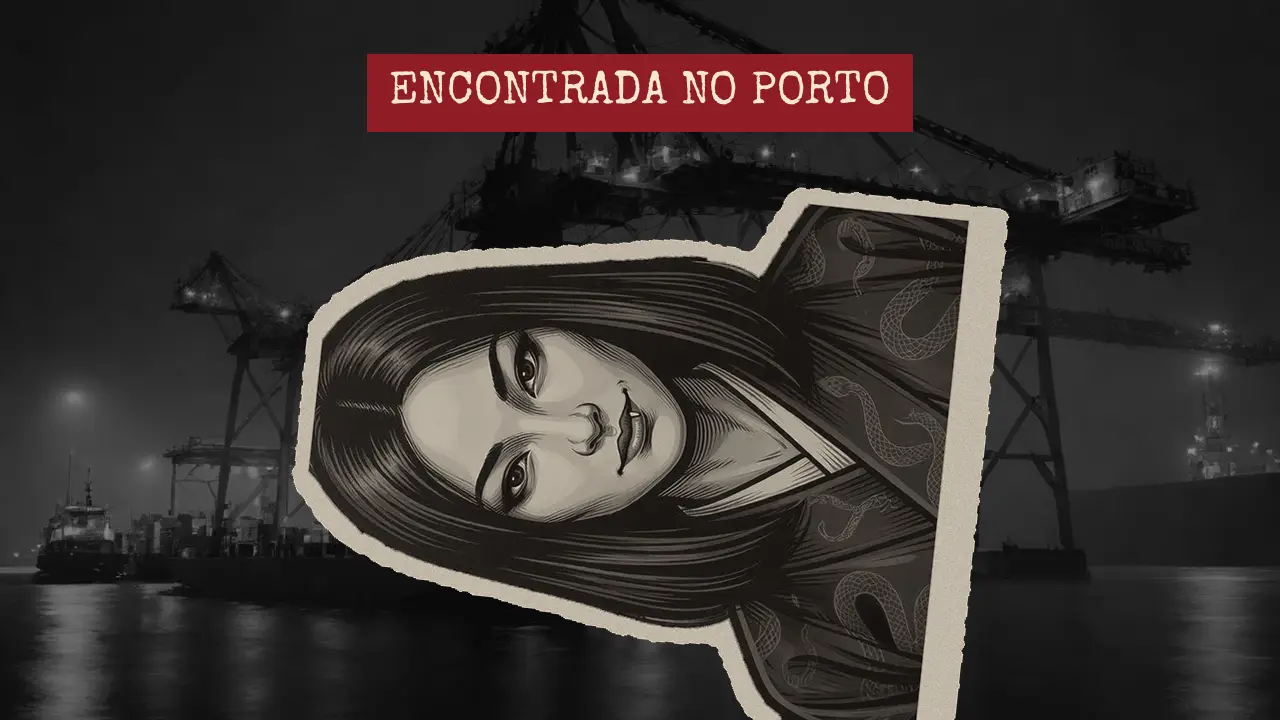
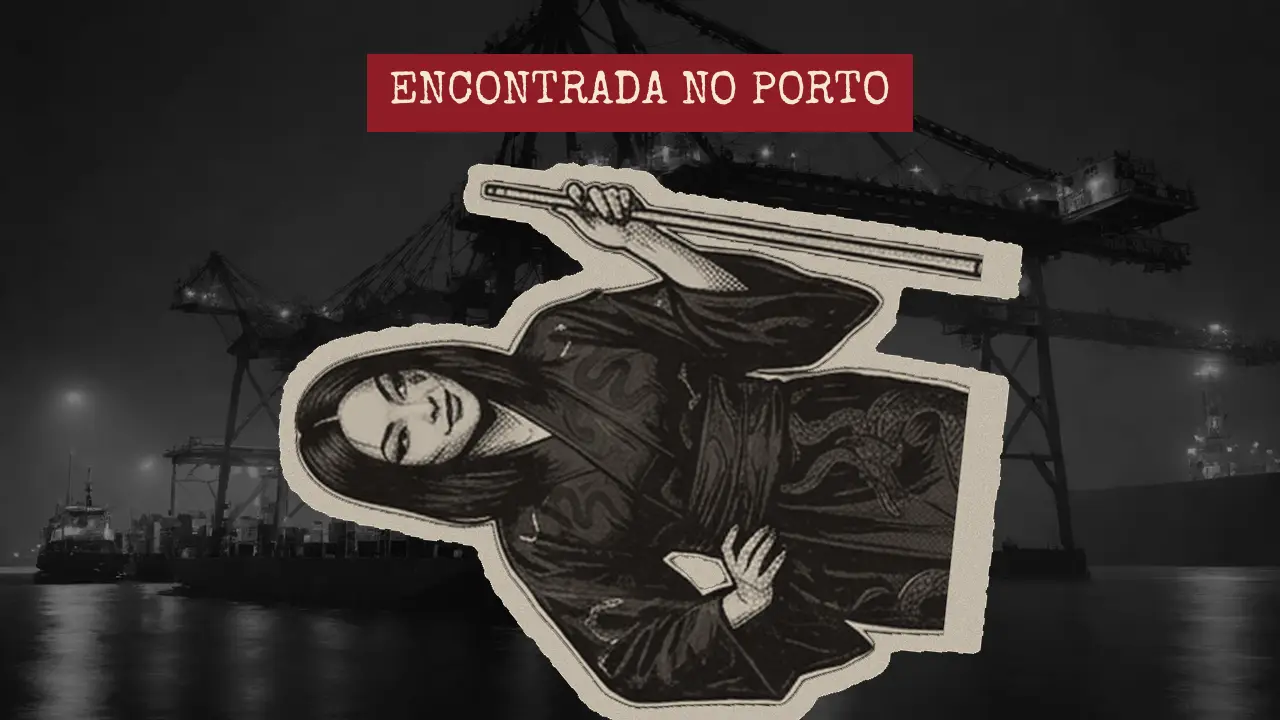
Harumi: 6 poses da prancha estilizada do Peter (neutro, taco, manga, medo, brava, desdem)
O recorte das pranchas de fundo vermelho usa o isnet-anime, que guarda o taco
e os dedos, e apaga o vermelho que aparece nos vãos. Na pose do taco fica só o
que os dois modelos acham, para a mesa de sinuca sair.

Claude-Session: https://claude.ai/code/session_019rMdYjoxthhBmpK8puANwM

Changed region(s): [[0.2188, 0.2139, 0.8125, 1.0]]

diff --git a/art/recortar_poses.py b/art/recortar_poses.py
@@ -38,7 +38,20 @@ POSES = {
         "dante_calado": (715, 45, 1000, 470),    # "silent & cold"
         "dante_pulso": (785, 225, 1345, 640),    # "the oath": a mão estendida, oferecendo o sangue
     },
+    "harumi": {  # a prancha estilizada (fundo vermelho); a realista com acabamento do Rayo ficou só no teste
+        "harumi_neutro": (40, 88, 340, 440),
+        "harumi_taco": (366, 88, 680, 320),
+        "harumi_manga": (700, 88, 1020, 375),
+        "harumi_medo": (1040, 88, 1345, 460),
+        "harumi_brava": (362, 432, 680, 640),
+        "harumi_desdem": (700, 432, 1020, 745),
+    },
 }
+# pranchas de fundo vermelho chapado: o vermelho que aparece nos vãos (entre o braço e o corpo) também sai,
+# e o recorte usa o modelo de ilustração (isnet-anime), que guarda o taco e os dedos finos
+FUNDO_VERMELHO = {"harumi"}
+# poses em que o modelo de ilustração leva junto um objeto do cenário (a mesa de sinuca): fica só o que os dois modelos acham
+INTERSECAO = {"harumi_taco"}
 
 
 def limpar(im, limiar=30):
@@ -52,14 +65,38 @@ def limpar(im, limiar=30):
     return im
 
 
+def tirar_vermelho(im, minimo=150):
+    """Apaga manchas grandes do vermelho do fundo que ficaram dentro do recorte (o rembg preenche os vãos)."""
+    a = np.array(im).astype(np.int16)
+    r, g, b = a[..., 0], a[..., 1], a[..., 2]
+    verm = ((r > 105) & (r > 2.0 * g) & (r > 2.0 * b)) | ((r > 22) & (r > 2.8 * g) & (r > 2.8 * b))
+    verm = ndimage.binary_opening(verm, iterations=2)
+    rot, n = ndimage.label(verm)
+    if n:
+        tam = np.bincount(rot.ravel()); tam[0] = 0
+        grande = tam[rot] >= minimo
+        grande = ndimage.binary_dilation(grande, iterations=2)
+        alfa = np.array(im.getchannel("A")); alfa[grande] = 0
+        im.putalpha(Image.fromarray(alfa))
+    return im
+
+
 sessao = new_session("isnet-general-use")
+sessao_ilustra = new_session("isnet-anime")
 for prancha in sys.argv[1:] or POSES:
     img = Image.open(os.path.join(PRANCHAS, prancha + ".jpg")).convert("RGB")
     for nome, caixa in POSES[prancha].items():
         # amplia 2x antes do rembg: a prancha é pequena e o recorte fica mais limpo
         parte = img.crop(caixa)
         parte = parte.resize((parte.width * 2, parte.height * 2), Image.LANCZOS)
-        out = limpar(remove(parte, session=sessao))
+        if prancha in FUNDO_VERMELHO:
+            out = limpar(remove(parte, session=sessao_ilustra), 128)
+            if nome in INTERSECAO:
+                geral = limpar(remove(parte, session=sessao))
+                out.putalpha(Image.fromarray(np.minimum(np.array(out.getchannel("A")), np.array(geral.getchannel("A")))))
+            out = tirar_vermelho(out)
+        else:
+            out = limpar(remove(parte, session=sessao))
         out = out.crop(out.getbbox())
         out.save(os.path.join(SAIDA, nome + ".png"))
         print(nome, out.size)

diff --git a/art/recortar_personagens.py b/art/recortar_personagens.py
@@ -20,7 +20,7 @@ SAIDA = os.path.join(os.path.dirname(os.path.abspath(__file__)), "fontes")
 PERSONAGENS = {
     "dante": ("dante.png", (0, .15, 1, .80), None),
     "cao": ("originais/Cao__4320b7.png", (0, .08, 1, .72), None),
-    "harumi": ("originais/Harumi__88a88e.png", (.12, .04, .88, .76), None),  # a de quimono (o Peter preferiu esta)
+    # harumi: as poses vêm da prancha estilizada do Peter (art/recortar_poses.py)
     "nonna": ("nonna-benedetta.png", (0, .14, 1, .56), None),
     "constance": ("constance.png", (0, .10, 1, .65), None),
     "biel": ("biel.png", (.30, .10, 1, .72), "fantasma"),  # o Biel morto, no lugar do carniçal Zé Carlos
